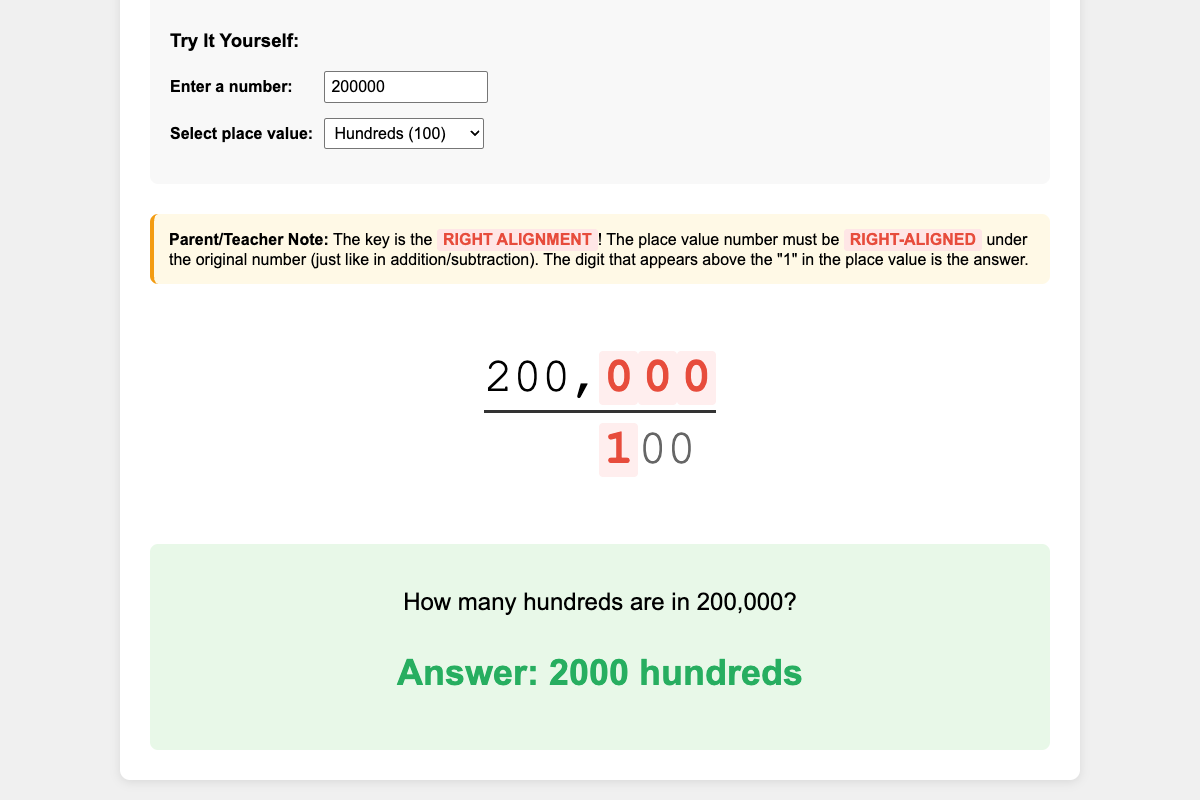
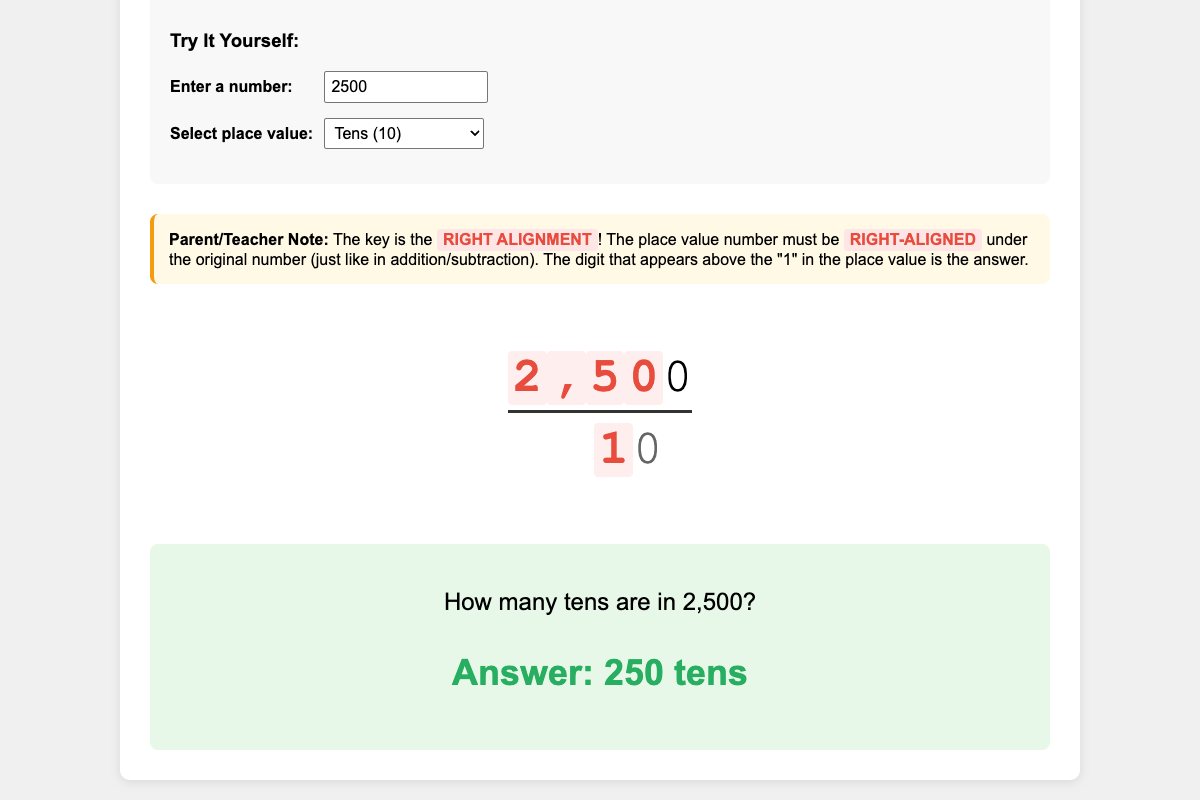
Fix alignment and highlighting for proper character-by-character matching

diff --git a/index.html b/index.html
@@ -75,6 +75,7 @@
             margin-bottom: 5px;
             white-space: pre;
             font-family: 'Courier New', monospace;
+            letter-spacing: 0;
         }
         .place-value-line {
             font-size: 48px;
@@ -83,6 +84,7 @@
             padding-top: 10px;
             white-space: pre;
             font-family: 'Courier New', monospace;
+            letter-spacing: 0;
         }
         .highlight-digit {
             color: #e74c3c;
@@ -232,9 +234,12 @@
             const answerStr = answer.toString();
             const highlightPositions = new Set();
             
-            // The teaching method: highlight all digits from start up to where "1" aligns
+            // Calculate where the "1" in the place value aligns
+            const placeStartPos = numberChars.length - placeValueChars.length;
+            
+            // The teaching method: highlight all characters from start up to where "1" aligns
             // This shows what replaces the "1" to give the answer
-            for (let i = 0; i <= paddingNeeded; i++) {
+            for (let i = 0; i <= placeStartPos; i++) {
                 if (i < numberChars.length) {
                     highlightPositions.add(i);
                 }
@@ -253,8 +258,14 @@
             // Build the place value display with proper alignment
             let placeValueDisplay = '';
             
+            // For monospace fonts, we need exact character matching
+            // Build a string that matches the exact length of the number display
+            const targetLength = numberChars.length;
+            const placeStartPos = targetLength - placeValueChars.length;
+            
             // Add spaces for alignment
-            for (let i = 0; i < paddingNeeded; i++) {
+            for (let i = 0; i < placeStartPos; i++) {
+                // Match whatever is in the number at this position (space or nothing)
                 placeValueDisplay += ' ';
             }
             

diff --git a/check_alignment.js b/check_alignment.js
@@ -31,14 +31,14 @@ const puppeteer = require('puppeteer');
     // Force a page reload to ensure we have the latest code
     await page.reload({ waitUntil: 'networkidle2' });
     
-    // Change input to 200000 again
+    // Change input to 2500
     await page.evaluate(() => {
-        document.getElementById('inputNumber').value = '200000';
+        document.getElementById('inputNumber').value = '2500';
     });
     
-    // Change place value to 100 again
+    // Change place value to 10
     await page.evaluate(() => {
-        document.getElementById('placeValue').value = '100';
+        document.getElementById('placeValue').value = '10';
     });
     
     // Trigger the update again
